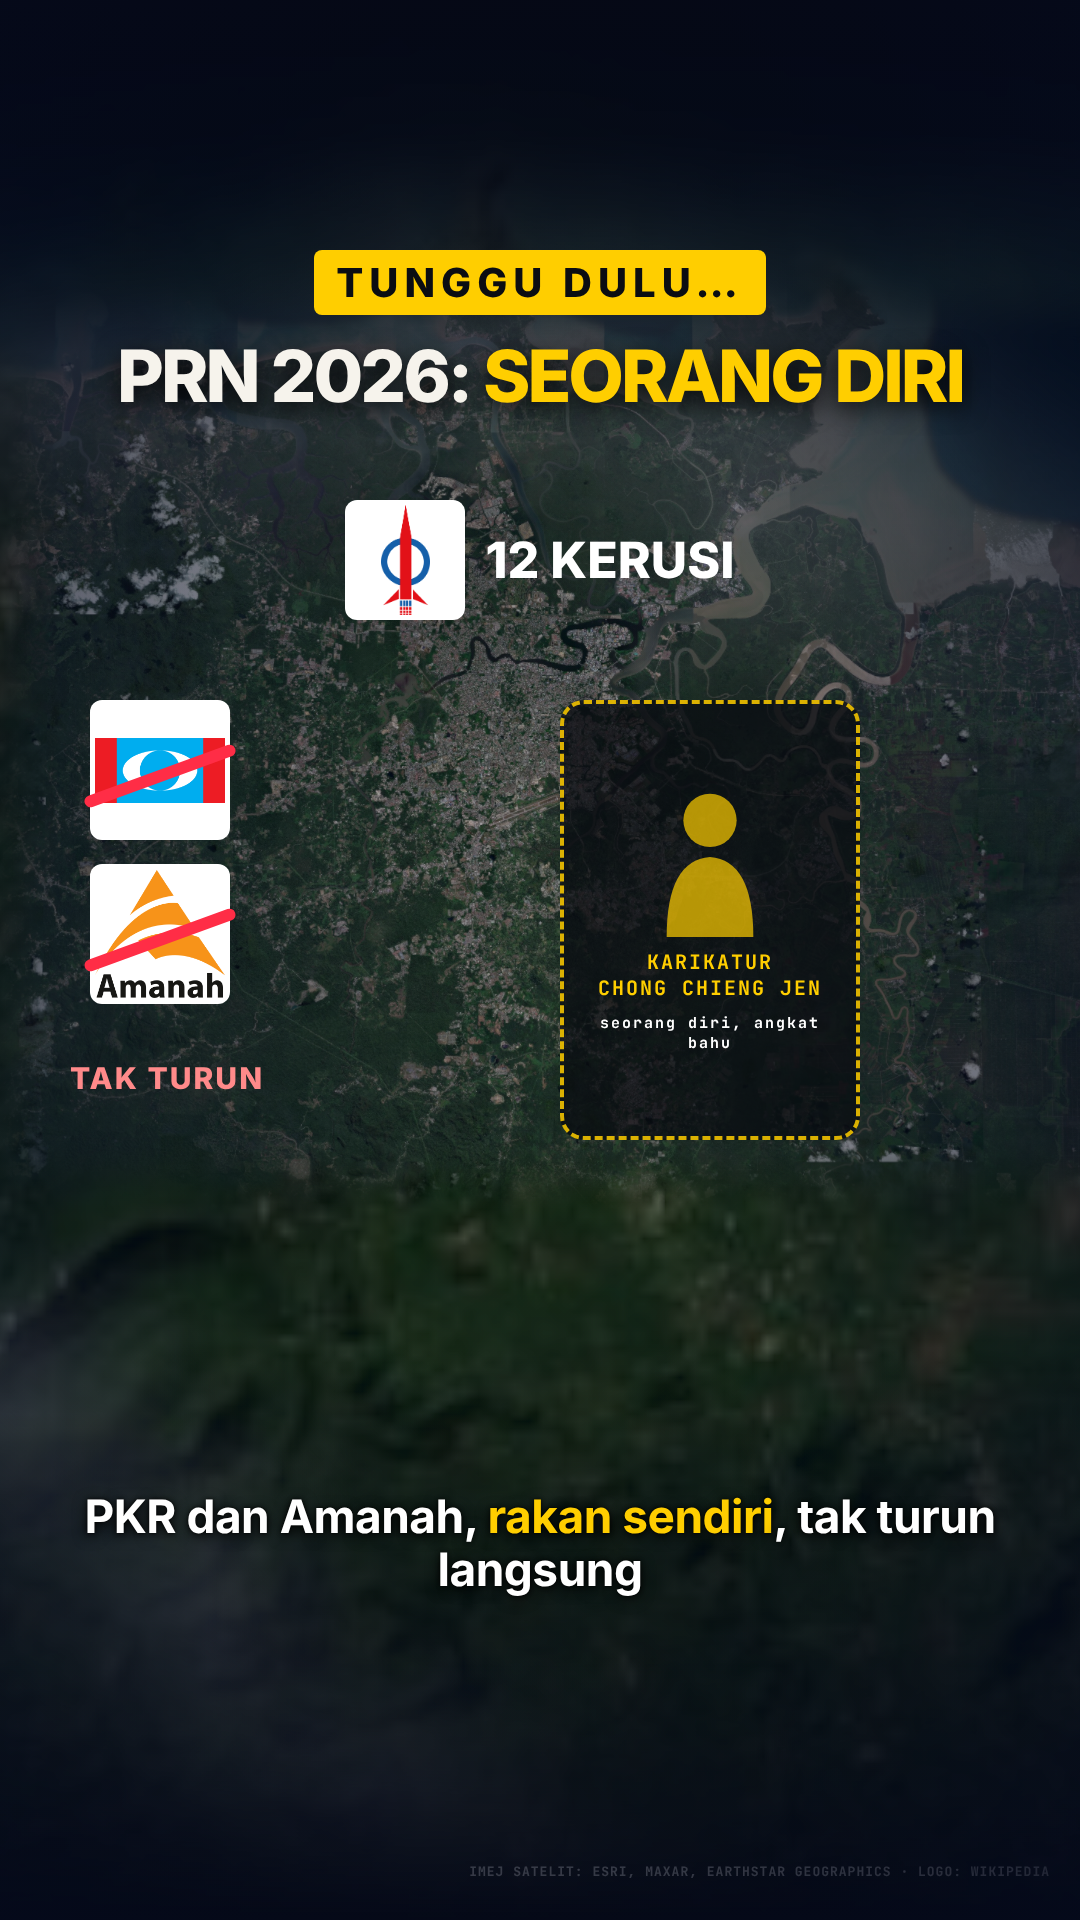
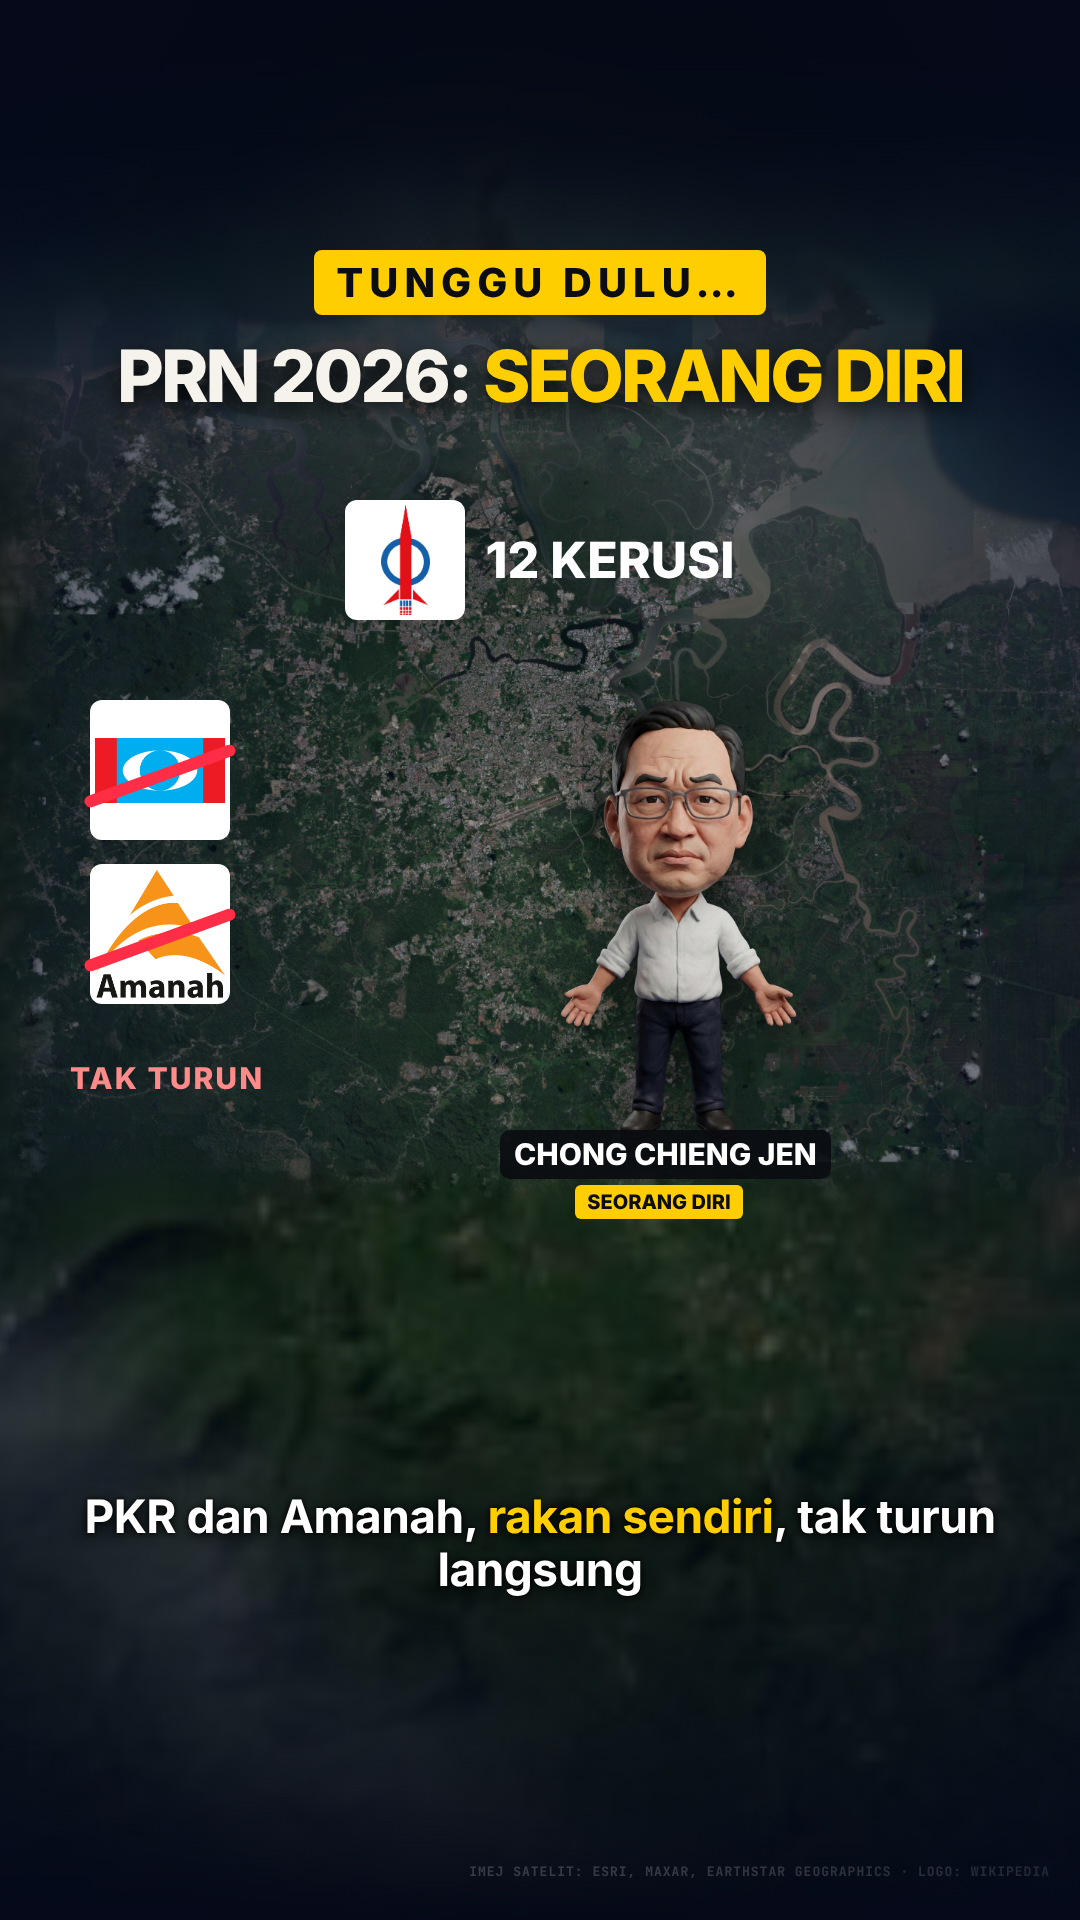
dap-sarawak-video: Chong Chieng Jen + Sim Kui Hian caricatures in storyboard
Claude-Session: https://claude.ai/code/session_01GRVCpVLeEipRvyW43UFZDP

Changed region(s): [[0.4583, 0.3438, 0.7944, 0.6562]]

diff --git a/dap-sarawak-video/boards/storyboard.html b/dap-sarawak-video/boards/storyboard.html
@@ -17,6 +17,6 @@ h1{font:800 46px Inter;letter-spacing:-1px}h1 span{color:#ffce00}
 .vo{font:400 17px/1.4 Inter;color:#dfe5ea;font-style:italic;margin-bottom:12px}
 .fx{font:400 15px/1.45 Inter;color:#9aa3ad}.fx b{color:#ffcf4a;font-weight:700}
 </style></head><body>
-<h1>DAP SARAWAK: <span>12 KERUSI JADI 2</span> (v2)</h1>
+<h1>DAP SARAWAK: <span>12 KERUSI JADI 2</span> (v3)</h1>
 <div class="meta">MAP ANIMATION (lebih banyak terbang & zoom: Kuching → Sibu/Miri → Kuching → Putrajaya → Kuching) · karikatur Chong Chieng Jen, Sim Kui Hian, Abang Johari · logo: Wikipedia · neutral</div>
-<div class="grid"><div class="f"><img src="frame-01.png"><div><div class="n">01 · 0:00</div><div class="t">Hook + open loop</div><div class="vo">"Tahun 2011, DAP menang 12 kerusi di Sarawak. Rekod terbaik DAP di negeri tu. Sepuluh tahun kemudian, tinggal dua je! Apa jadi?"</div><div class="fx">Peta Sarawak, <b>cincin merah berdenyut</b> di Kuching, Sibu, Bintulu, Miri. Carta <b>12 → 2</b>, cop <b>APA JADI?</b> <b>Karikatur Chong Chieng Jen</b> jatuh masuk.</div></div></div><div class="f"><img src="frame-02.png"><div><div class="n">02 · 0:07</div><div class="t">2011: Kuching</div><div class="vo">"(sambungan hook)"</div><div class="fx"><b>Zoom masuk ke Kuching</b> (imej satelit tajam): cincin merah di Padungan, Pending, Kota Sentosa. Kad <b>2011 · 12 KERUSI</b>.</div></div></div><div class="f"><img src="frame-03.png"><div><div class="n">03 · 0:10</div><div class="t">2016: tinggal 7</div><div class="vo">"2016, DAP hilang lima kerusi, tinggal tujuh."</div><div class="fx"><b>Terbang ke Sibu–Bintulu–Miri</b>, cincin bertukar kelabu. Cop <b>HILANG 5 KERUSI</b>, kiraan 12 → 7.</div></div></div><div class="f"><img src="frame-04.png"><div><div class="n">04 · 0:14</div><div class="t">2021: tinggal 2</div><div class="vo">"2021, hilang lima lagi. Cuma Padungan dan Pending yang bertahan. SUPP, parti dalam GPS, rampas balik kerusi-kerusi tu."</div><div class="fx"><b>Balik zoom ke Kuching</b>: Padungan & Pending kekal merah, Kota Sentosa <b>bertukar kuning → SUPP</b>. <b>Karikatur Sim Kui Hian (SUPP)</b> jatuh masuk.</div></div></div><div class="f"><img src="frame-05.png"><div><div class="n">05 · 0:22</div><div class="t">12 / 16</div><div class="vo">"Malah GPS menang 12 daripada 16 kerusi majoriti Cina, prestasi terbaik dalam 15 tahun."</div><div class="fx">Sarawak menyala emas, kad <b>12 / 16</b> + logo GPS, <b>karikatur Abang Johari</b> melambai.</div></div></div><div class="f"><img src="frame-06.png"><div><div class="n">06 · 0:29</div><div class="t">Kenapa? Putrajaya</div><div class="vo">"Kenapa? Penganalisis kata, pengundi kecewa dengan rekod 22 bulan PH di Putrajaya, dan sentimen Utamakan Sarawak makin kuat."</div><div class="fx"><b>Terbang keluar ke Semenanjung</b>: pin <b>Putrajaya · PH 22 bulan</b>, anak panah merah ke Kuching. Dua kad sebab (kata penganalisis).</div></div></div><div class="f"><img src="frame-07.png"><div><div class="n">07 · 0:39</div><div class="t">Re-hook: seorang diri</div><div class="vo">"Tapi tunggu dulu! PRN kali ni, DAP bertanding seorang diri. PKR dan Amanah, rakan sendiri, tak turun langsung."</div><div class="fx"><b>Flash.</b> Balik ke Kuching. Logo PKR & Amanah <b>dipangkah</b>, <b>Chong Chieng Jen</b> berdiri seorang diri.</div></div></div><div class="f"><img src="frame-08.png"><div><div class="n">08 · 0:47</div><div class="t">Ramalan</div><div class="vo">"Jadi, 12 Disember ni, DAP bangkit semula, atau terus tenggelam? Komen ramalan kau kat bawah!"</div><div class="fx">Dua kad <b>BANGKIT vs TENGGELAM</b> + <b>KOMEN RAMALAN ↓</b>.</div></div></div></div></body></html>
+<div class="grid"><div class="f"><img src="frame-01.png"><div><div class="n">01 · 0:00</div><div class="t">Hook + open loop</div><div class="vo">"Tahun 2011, DAP menang 12 kerusi di Sarawak. Rekod terbaik DAP di negeri tu. Sepuluh tahun kemudian, tinggal dua je! Apa jadi?"</div><div class="fx">Peta Sarawak, <b>cincin merah berdenyut</b> di Kuching, Sibu, Bintulu, Miri. Carta <b>12 → 2</b>, cop <b>APA JADI?</b> <b>Karikatur Chong Chieng Jen</b> jatuh masuk.</div></div></div><div class="f"><img src="frame-02.png"><div><div class="n">02 · 0:07</div><div class="t">2011: Kuching</div><div class="vo">"(sambungan hook)"</div><div class="fx"><b>Zoom masuk ke Kuching</b> (imej satelit tajam): cincin merah di Padungan, Pending, Kota Sentosa. Kad <b>2011 · 12 KERUSI</b>.</div></div></div><div class="f"><img src="frame-03.png"><div><div class="n">03 · 0:10</div><div class="t">2016: tinggal 7</div><div class="vo">"2016, DAP hilang lima kerusi, tinggal tujuh."</div><div class="fx"><b>Terbang ke Sibu–Bintulu–Miri</b>, cincin bertukar kelabu. Cop <b>HILANG 5 KERUSI</b>, kiraan 12 → 7.</div></div></div><div class="f"><img src="frame-04.png"><div><div class="n">04 · 0:14</div><div class="t">2021: tinggal 2</div><div class="vo">"2021, hilang lima lagi. Cuma Padungan dan Pending yang bertahan. SUPP, parti dalam GPS, rampas balik kerusi-kerusi tu."</div><div class="fx"><b>Balik zoom ke Kuching</b>: Padungan & Pending kekal merah, Kota Sentosa <b>bertukar kuning → SUPP</b>. <b>Karikatur Sim Kui Hian (SUPP)</b> jatuh masuk, ibu jari ke atas.</div></div></div><div class="f"><img src="frame-05.png"><div><div class="n">05 · 0:22</div><div class="t">12 / 16</div><div class="vo">"Malah GPS menang 12 daripada 16 kerusi majoriti Cina, prestasi terbaik dalam 15 tahun."</div><div class="fx">Sarawak menyala emas, kad <b>12 / 16</b> + logo GPS, <b>karikatur Abang Johari</b> melambai.</div></div></div><div class="f"><img src="frame-06.png"><div><div class="n">06 · 0:29</div><div class="t">Kenapa? Putrajaya</div><div class="vo">"Kenapa? Penganalisis kata, pengundi kecewa dengan rekod 22 bulan PH di Putrajaya, dan sentimen Utamakan Sarawak makin kuat."</div><div class="fx"><b>Terbang keluar ke Semenanjung</b>: pin <b>Putrajaya · PH 22 bulan</b>, anak panah merah ke Kuching. Dua kad sebab (kata penganalisis).</div></div></div><div class="f"><img src="frame-07.png"><div><div class="n">07 · 0:39</div><div class="t">Re-hook: seorang diri</div><div class="vo">"Tapi tunggu dulu! PRN kali ni, DAP bertanding seorang diri. PKR dan Amanah, rakan sendiri, tak turun langsung."</div><div class="fx"><b>Flash.</b> Balik ke Kuching. Logo PKR & Amanah <b>dipangkah</b>, <b>Chong Chieng Jen</b> berdiri seorang diri.</div></div></div><div class="f"><img src="frame-08.png"><div><div class="n">08 · 0:47</div><div class="t">Ramalan</div><div class="vo">"Jadi, 12 Disember ni, DAP bangkit semula, atau terus tenggelam? Komen ramalan kau kat bawah!"</div><div class="fx">Dua kad <b>BANGKIT vs TENGGELAM</b> + <b>KOMEN RAMALAN ↓</b>.</div></div></div></div></body></html>

diff --git a/dap-sarawak-video/boards/frame.html b/dap-sarawak-video/boards/frame.html
@@ -287,7 +287,7 @@ const ph = (left, top, w, h, who, note) => html(`<div class="ph3" style="left:${
 const fig = (left, top, h, src, name, role) => html(`<img class="fig" src="../assets/leaders/${src}" style="left:${left}px;top:${top}px;height:${h}px"><div class="np2" style="left:${left - 60}px;width:${h * 0.45 + 120}px;top:${top + h - 10}px"><b>${name}</b><br><i>${role}</i></div>`);
 const mini = (top, yr, n, col = "#ff4d5e") => html(`<div style="position:absolute;top:${top}px;left:90px;display:flex;align-items:center;gap:16px;background:rgba(10,12,17,.94);border-radius:16px;padding:14px 22px;box-shadow:0 14px 34px rgba(0,0,0,.5)">${lg("dap", 64)}<div style="font:700 22px Mono;letter-spacing:3px;color:#ff8a8a">${yr}</div><div style="font:italic 700 96px/1 Serif;color:${col}">${n}</div><div style="font:800 30px Inter;color:#fff">KERUSI</div></div>`);
 const KV = { lat: 1.53, lon: 110.36, dist: 0.016, tilt: 8, yShift: 0.12 };
-const PAD = [1.553, 110.355], PEN = [1.545, 110.392], KSN = [1.468, 110.330], PJ = [2.93, 101.69];
+const PAD = [1.553, 110.355], PEN = [1.528, 110.40], KSN = [1.468, 110.330], PJ = [2.93, 101.69];
 const FR = {
   1() { g.setView(SV); credit(); fill(SWK, "rgba(255,206,0,.15)", "#ffce00");
     [KCH, SBU, BTU, MRI].forEach((ll) => ring(ll, "#ff4d5e", 34));
@@ -296,7 +296,7 @@ const FR = {
       <div style="font:800 60px Inter;color:#fff;align-self:center">→</div>
       <div style="text-align:center"><div style="font:italic 700 110px/1 Serif;color:#ff4d5e">2</div><div style="width:120px;height:37px;background:linear-gradient(#ff4d5e,#b3121f);border-radius:10px 10px 0 0"></div><div style="font:800 32px Inter;color:#fff;margin-top:8px">2021</div></div></div>`);
     html(`<div class="stamp2 red" style="top:1180px;font-size:60px">APA JADI?</div>`);
-    ph(760, 820, 260, 380, "CHONG CHIENG JEN", "pengerusi DAP Sarawak");
+    fig(760, 830, 360, "chong-fig.png", "CHONG CHIENG JEN", "PENGERUSI DAP SARAWAK");
     capB(`Sepuluh tahun kemudian, <span class="r">tinggal dua je!</span>`); },
   2() { g.setView(KV); credit();
     ring(PAD, "#ff4d5e", 44, "PADUNGAN", "DAP", "#ff4d5e"); ring(PEN, "#ff4d5e", 44, "PENDING", "DAP", "#ff4d5e"); ring(KSN, "#ff4d5e", 44, "KOTA SENTOSA", "DAP", "#ff4d5e");
@@ -311,7 +311,7 @@ const FR = {
   4() { g.setView(KV); credit();
     ring(PAD, "#ff4d5e", 44, "PADUNGAN", "DAP BERTAHAN", "#ff4d5e"); ring(PEN, "#ff4d5e", 44, "PENDING", "DAP BERTAHAN", "#ff4d5e"); ring(KSN, "#ffce00", 44, "KOTA SENTOSA", "→ SUPP", "#ffce00");
     mini(250, "2021", 2);
-    ph(60, 820, 260, 380, "SIM KUI HIAN", "presiden SUPP (GPS)");
+    fig(70, 830, 360, "sim-fig.png", "SIM KUI HIAN", "PRESIDEN SUPP (GPS)");
     capB(`Cuma <span class="r">Padungan dan Pending</span> yang bertahan`); },
   5() { g.setView(SV); credit(); fill(SWK, "rgba(255,206,0,.32)", "#ffce00");
     html(`<div class="big60" style="top:250px;border:3px solid #ffce00"><div style="display:flex;align-items:center;justify-content:center;gap:16px">${lg("gps", 80)}<div class="k" style="color:#ffce00">GPS · PRN 2021</div></div><div class="n" style="font-size:150px">12 / 16</div><div class="u">KERUSI MAJORITI CINA</div>
@@ -334,7 +334,7 @@ const FR = {
     const x = (k) => `<div style="position:relative">${lg(k, 140)}<div style="position:absolute;left:-10px;right:-10px;top:50%;height:12px;background:#ff2d46;transform:rotate(-20deg);border-radius:6px"></div></div>`;
     html(`<div style="position:absolute;top:700px;left:90px;display:flex;flex-direction:column;gap:24px">${x("pkr")}${x("amanah")}</div>`);
     html(`<div style="position:absolute;top:1060px;left:70px;font:800 30px Inter;color:#ff8a8a;letter-spacing:2px">TAK TURUN</div>`);
-    ph(560, 700, 300, 440, "CHONG CHIENG JEN", "seorang diri, angkat bahu");
+    fig(560, 700, 440, "chong-fig.png", "CHONG CHIENG JEN", "SEORANG DIRI");
     capB(`PKR dan Amanah, <span class="r">rakan sendiri</span>, tak turun langsung`); },
   8() { g.setView({ ...SV, dist: 0.7 }); fill(SWK, "rgba(255,206,0,.2)", "#ffce00");
     html(`<div style="position:absolute;inset:0;background:rgba(5,7,11,.55)"></div>`);
